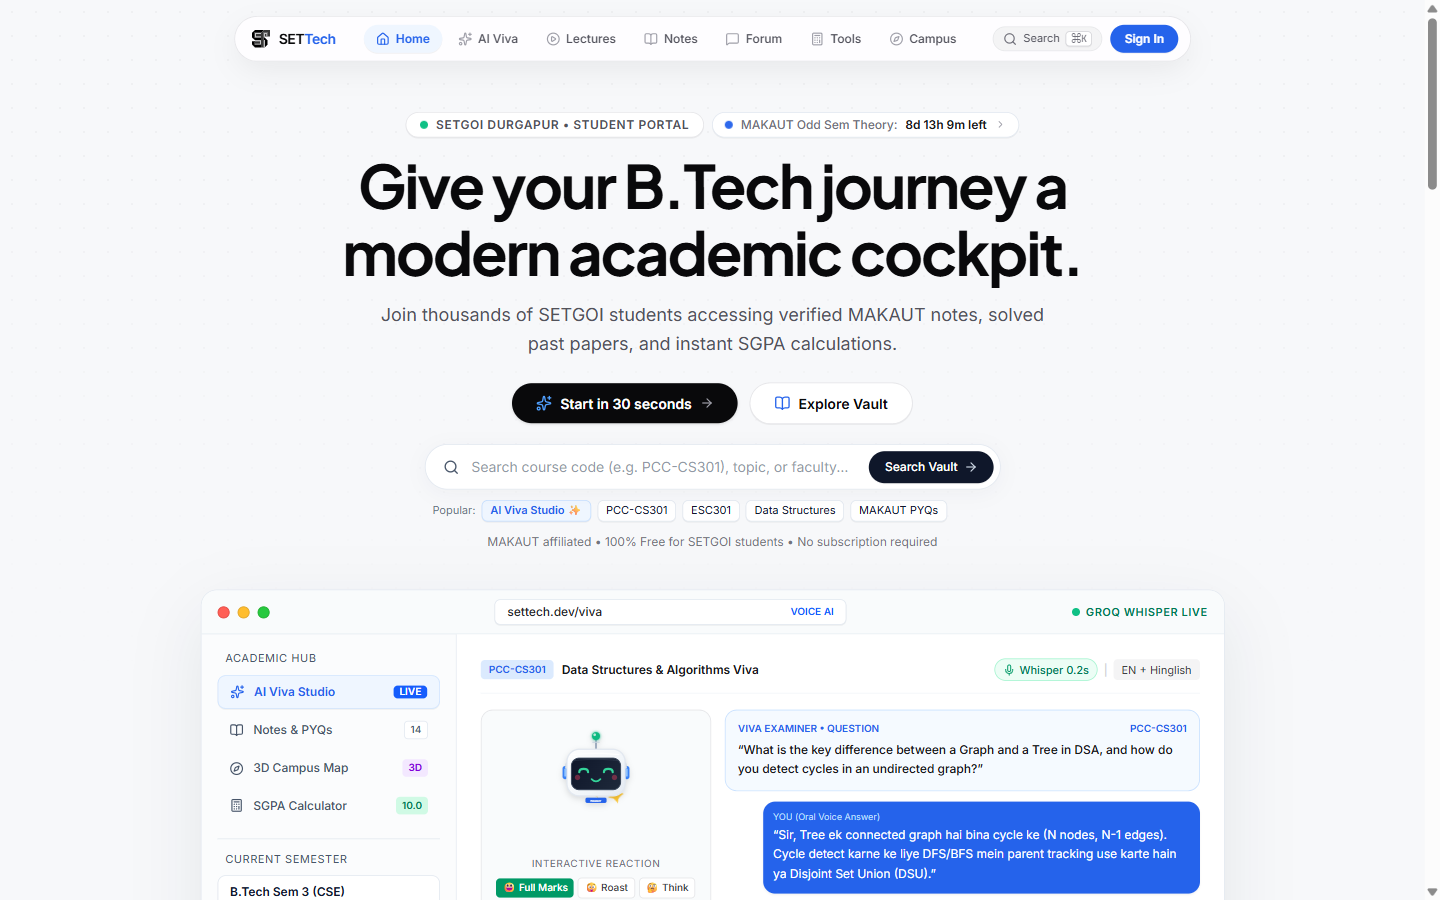
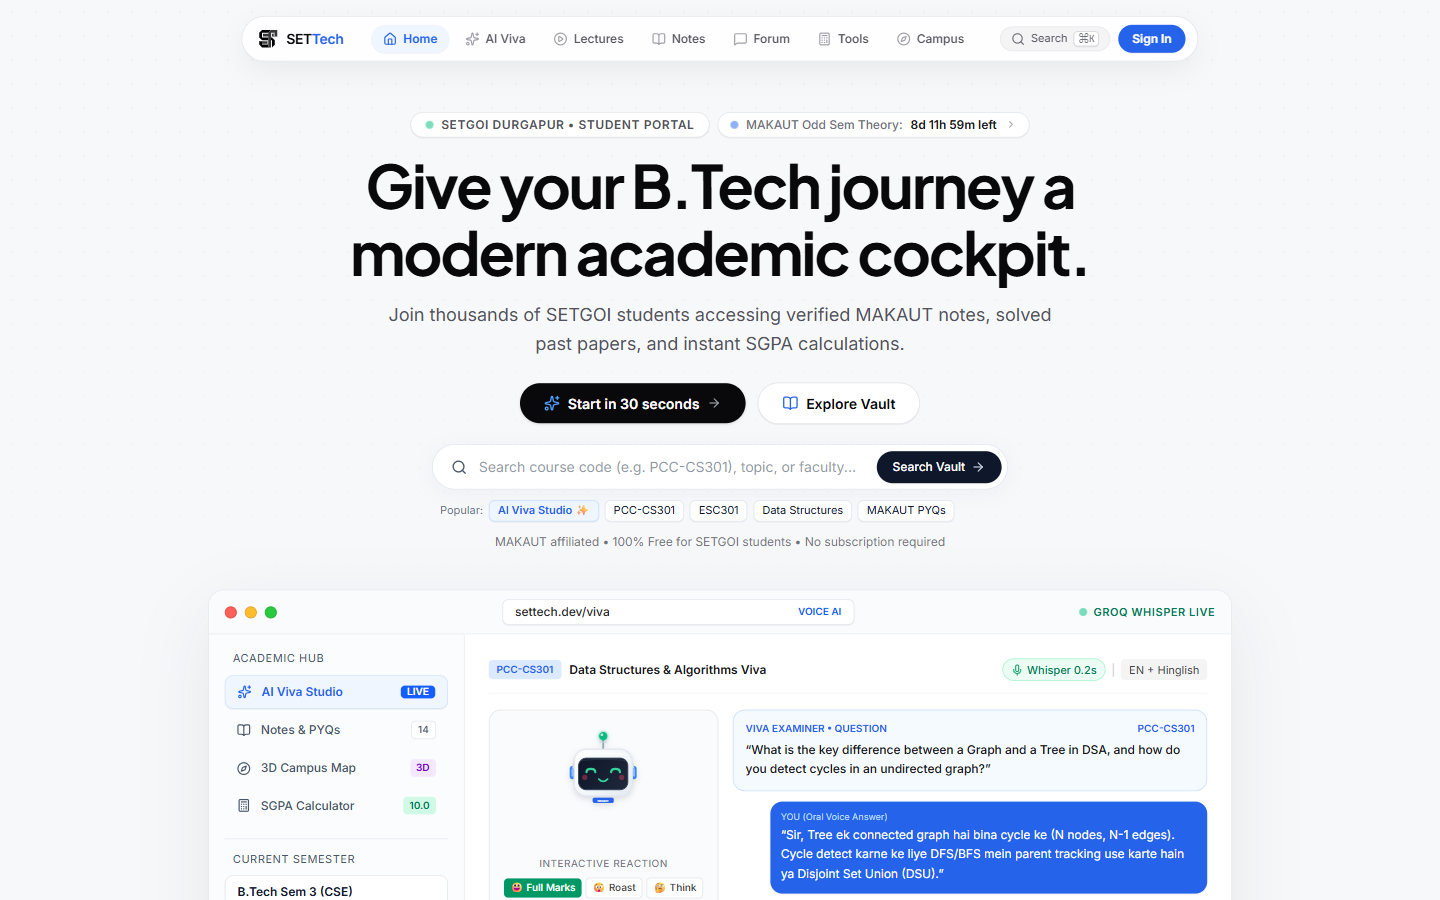
fix(poster): add SVG crest fallback, scrollbar-free preview, balanced typography & compact toolbar

diff --git a/src/app/poster/page.tsx b/src/app/poster/page.tsx
@@ -14,12 +14,56 @@ import {
   BookOpen,
   PlayCircle,
   Calculator,
-  GraduationCap,
   CheckCircle2,
   Mic,
   Compass,
 } from 'lucide-react';
 import { SetTechLogo } from '@/components/SetTechLogo';
+
+function SetgoiCrestSvg() {
+  return (
+    <svg
+      width="44"
+      height="44"
+      viewBox="0 0 44 44"
+      fill="none"
+      xmlns="http://www.w3.org/2000/svg"
+      aria-label="SETGOI Institutional Crest"
+    >
+      <path
+        d="M22 3L38 9V21.5C38 31.1 31.2 38.4 22 41C12.8 38.4 6 31.1 6 21.5V9L22 3Z"
+        fill="#09090B"
+      />
+      <path
+        d="M22 5.8L35.2 10.8V21.4C35.2 29.4 29.6 35.6 22 38C14.4 35.6 8.8 29.4 8.8 21.4V10.8L22 5.8Z"
+        stroke="#2563EB"
+        strokeWidth="1.4"
+      />
+      <path
+        d="M22 10.5L29.5 14.2L22 17.8L14.5 14.2L22 10.5Z"
+        fill="#2563EB"
+      />
+      <path
+        d="M17.2 16.4V20.2C17.2 21.5 19.3 22.6 22 22.6C24.7 22.6 26.8 21.5 26.8 20.2V16.4"
+        stroke="#FAFAFA"
+        strokeWidth="1.2"
+        strokeLinecap="round"
+      />
+      <text
+        x="22"
+        y="31.5"
+        textAnchor="middle"
+        fill="#FAFAFA"
+        fontSize="7.2"
+        fontWeight="800"
+        fontFamily="ui-monospace, SFMono-Regular, Menlo, monospace"
+        letterSpacing="0.8"
+      >
+        SETGOI
+      </text>
+    </svg>
+  );
+}
 
 export default function PosterStudioPage() {
   const posterRef = useRef<HTMLDivElement | null>(null);
@@ -27,7 +71,7 @@ export default function PosterStudioPage() {
   const screenshotInputRef = useRef<HTMLInputElement | null>(null);
 
   const [format, setFormat] = useState<'a4' | 'social'>('a4');
-  const [collegeLogoSrc, setCollegeLogoSrc] = useState<string>('/setgoi-logo.png');
+  const [logoSrc, setLogoSrc] = useState<string>('/setgoi-logo.png');
   const [logoError, setLogoError] = useState<boolean>(false);
 
   const [landingPreviewSrc, setLandingPreviewSrc] = useState<string>('/poster/landing-preview.png');
@@ -86,34 +130,34 @@ export default function PosterStudioPage() {
       {/* =========================================================================
           NON-PRINTABLE CONTROL TOOLBAR
           ========================================================================= */}
-      <div className="print:hidden w-full max-w-[920px] bg-white/90 backdrop-blur-md border border-[#E4E4E7] rounded-2xl px-4 py-3 shadow-sm flex flex-wrap items-center justify-between gap-3 sticky top-4 z-40">
-        <div className="flex items-center gap-3">
+      <div className="print:hidden w-full max-w-[1080px] bg-white/90 backdrop-blur-md border border-[#E4E4E7] rounded-2xl px-3.5 py-2.5 shadow-sm flex flex-wrap items-center justify-between gap-2 sticky top-4 z-40">
+        <div className="flex items-center gap-2.5">
           <Link
             href="/"
-            className="px-3 py-1.5 rounded-xl bg-zinc-100 hover:bg-zinc-200/80 text-zinc-700 text-xs font-mono font-medium inline-flex items-center gap-1.5 transition-colors"
+            className="px-2.5 py-1.5 rounded-xl bg-zinc-100 hover:bg-zinc-200/80 text-zinc-700 text-xs font-mono font-medium inline-flex items-center gap-1.5 transition-colors"
           >
             <ArrowLeft className="w-3.5 h-3.5" />
             <span>Back</span>
           </Link>
-          <div>
-            <div className="text-xs font-bold text-[#09090B] font-display">
-              SETTech A4 Poster Studio
+          <div className="hidden sm:block">
+            <div className="text-xs font-bold text-[#09090B] font-display leading-tight">
+              SETTech Poster Studio
             </div>
             <div className="text-[10px] font-mono text-zinc-500">
-              {format === 'social' ? '1080 × 1080px • 1:1 Social Card' : '794 × 1123px • A4 Print Sheet'}
+              {format === 'social' ? '1080 × 1080 • 1:1 Card' : '794 × 1123 • A4 Print'}
             </div>
           </div>
 
           {/* Format Switcher Segmented Toggle */}
           <div
-            className="flex items-center gap-0.5 p-0.5 bg-zinc-100 border border-[#E4E4E7] rounded-xl text-[11px] font-mono ml-2"
+            className="flex items-center gap-0.5 p-0.5 bg-zinc-100 border border-[#E4E4E7] rounded-xl text-[11px] font-mono ml-1"
             role="group"
             aria-label="Poster Format Switcher"
           >
             <button
               type="button"
               onClick={() => setFormat('a4')}
-              className={`px-2.5 py-1 rounded-lg transition-all cursor-pointer ${
+              className={`px-2.5 py-1 rounded-lg transition-all cursor-pointer whitespace-nowrap ${
                 format === 'a4'
                   ? 'bg-white text-[#09090B] font-bold shadow-2xs'
                   : 'text-zinc-500 hover:text-zinc-900'
@@ -124,7 +168,7 @@ export default function PosterStudioPage() {
             <button
               type="button"
               onClick={() => setFormat('social')}
-              className={`px-2.5 py-1 rounded-lg transition-all cursor-pointer ${
+              className={`px-2.5 py-1 rounded-lg transition-all cursor-pointer whitespace-nowrap ${
                 format === 'social'
                   ? 'bg-white text-[#2563EB] font-bold shadow-2xs'
                   : 'text-zinc-500 hover:text-zinc-900'
@@ -135,7 +179,7 @@ export default function PosterStudioPage() {
           </div>
         </div>
 
-        <div className="flex flex-wrap items-center gap-2">
+        <div className="flex flex-wrap items-center gap-1.5">
           <input
             ref={logoInputRef}
             type="file"
@@ -143,7 +187,7 @@ export default function PosterStudioPage() {
             className="hidden"
             onChange={(e) =>
               handleImageUpload(e, (url) => {
-                setCollegeLogoSrc(url);
+                setLogoSrc(url);
                 setLogoError(false);
               })
             }
@@ -151,10 +195,10 @@ export default function PosterStudioPage() {
           <button
             type="button"
             onClick={() => logoInputRef.current?.click()}
-            className="px-3 py-1.5 rounded-xl bg-white border border-[#E4E4E7] hover:bg-zinc-50 text-xs font-sans font-medium text-zinc-700 inline-flex items-center gap-1.5 cursor-pointer"
+            className="px-2.5 py-1.5 rounded-xl bg-white border border-[#E4E4E7] hover:bg-zinc-50 text-xs font-sans font-medium text-zinc-700 inline-flex items-center gap-1.5 cursor-pointer whitespace-nowrap"
           >
             <ImagePlus className="w-3.5 h-3.5 text-zinc-500" />
-            <span>Upload College Logo</span>
+            <span>College Logo</span>
           </button>
 
           <input
@@ -172,29 +216,29 @@ export default function PosterStudioPage() {
           <button
             type="button"
             onClick={() => screenshotInputRef.current?.click()}
-            className="px-3 py-1.5 rounded-xl bg-white border border-[#E4E4E7] hover:bg-zinc-50 text-xs font-sans font-medium text-zinc-700 inline-flex items-center gap-1.5 cursor-pointer"
+            className="px-2.5 py-1.5 rounded-xl bg-white border border-[#E4E4E7] hover:bg-zinc-50 text-xs font-sans font-medium text-zinc-700 inline-flex items-center gap-1.5 cursor-pointer whitespace-nowrap"
           >
             <ImagePlus className="w-3.5 h-3.5 text-zinc-500" />
-            <span>Upload Landing Screenshot</span>
+            <span>Screenshot</span>
           </button>
 
           <button
             type="button"
             onClick={handleDownloadPng}
             disabled={isExporting}
-            className="px-3.5 py-1.5 rounded-xl bg-[#2563EB] hover:bg-blue-700 text-white text-xs font-sans font-semibold inline-flex items-center gap-1.5 shadow-2xs transition-colors cursor-pointer disabled:opacity-60"
+            className="px-3 py-1.5 rounded-xl bg-[#2563EB] hover:bg-blue-700 text-white text-xs font-sans font-semibold inline-flex items-center gap-1.5 shadow-2xs transition-colors cursor-pointer disabled:opacity-60 whitespace-nowrap"
           >
             <Download className="w-3.5 h-3.5" />
-            <span>{isExporting ? 'Exporting...' : 'Download High-Res PNG (300 DPI)'}</span>
+            <span>{isExporting ? 'Exporting...' : 'Download PNG'}</span>
           </button>
 
           <button
             type="button"
             onClick={handlePrintPdf}
-            className="px-3.5 py-1.5 rounded-xl bg-[#09090B] hover:bg-zinc-800 text-white text-xs font-sans font-semibold inline-flex items-center gap-1.5 shadow-2xs transition-colors cursor-pointer"
+            className="px-3 py-1.5 rounded-xl bg-[#09090B] hover:bg-zinc-800 text-white text-xs font-sans font-semibold inline-flex items-center gap-1.5 shadow-2xs transition-colors cursor-pointer whitespace-nowrap"
           >
             <Printer className="w-3.5 h-3.5" />
-            <span>Print / Save A4 PDF</span>
+            <span>Print A4 PDF</span>
           </button>
         </div>
       </div>
@@ -218,22 +262,19 @@ export default function PosterStudioPage() {
           {/* -------------------------------------------------------------------
               SECTION 1: TOP INSTITUTIONAL CO-BRANDING HEADER
               ------------------------------------------------------------------- */}
-          <header className="flex items-center justify-between gap-4 pb-6 border-b border-[#E4E4E7]">
+          <header className="flex items-center justify-between gap-4 pb-5 border-b border-[#E4E4E7]">
             <div className="flex items-center gap-3.5 min-w-0">
-              {/* SETGOI College Logo with Automatic Fallback Emblem */}
-              <div className="w-12 h-12 rounded-xl bg-white border border-[#E4E4E7] shadow-2xs flex items-center justify-center overflow-hidden shrink-0 p-1">
-                {!logoError ? (
+              {/* SETGOI College Logo with Automatic SVG Crest Fallback */}
+              <div className="w-12 h-12 rounded-xl bg-white border border-[#E4E4E7] shadow-2xs flex items-center justify-center overflow-hidden shrink-0 p-0.5">
+                {!logoError && logoSrc ? (
                   <img
-                    src={collegeLogoSrc}
+                    src={logoSrc}
                     alt="SETGOI Logo"
-                    className="w-full h-full object-contain"
+                    className="w-full h-full object-contain rounded-lg"
                     onError={() => setLogoError(true)}
                   />
                 ) : (
-                  <div className="w-full h-full rounded-lg bg-[#09090B] text-white flex flex-col items-center justify-center">
-                    <GraduationCap className="w-5 h-5 text-blue-400" />
-                    <span className="text-[7px] font-mono font-bold tracking-wider mt-0.5">SETGOI</span>
-                  </div>
+                  <SetgoiCrestSvg />
                 )}
               </div>
 
@@ -258,12 +299,12 @@ export default function PosterStudioPage() {
           {/* -------------------------------------------------------------------
               SECTION 2: CRISP MINIMAL HERO HEADLINE
               ------------------------------------------------------------------- */}
-          <section className="text-center space-y-2.5 pt-2">
-            <h1 className="text-[34px] font-display font-extrabold text-[#09090B] tracking-[-0.035em] leading-[1.08] max-w-[660px] mx-auto">
-              Your Entire B.Tech Semester,{' '}
-              <span className="text-[#2563EB]">Organized in One Place.</span>
+          <section className="text-center space-y-2 pt-1">
+            <h1 className="text-[33px] font-display font-extrabold text-[#09090B] tracking-[-0.035em] leading-[1.1] max-w-[660px] mx-auto">
+              <span className="block">Your Entire B.Tech Semester,</span>
+              <span className="block text-[#2563EB]">Organized in One Place.</span>
             </h1>
-            <p className="text-[13.5px] font-sans text-[#52525B] max-w-[600px] mx-auto leading-relaxed">
+            <p className="text-[13px] font-sans text-[#52525B] max-w-[600px] mx-auto leading-relaxed">
               Verified MAKAUT notes, PYQs, SWAYAM lectures, AI Viva prep &amp; 75% attendance tracking.
             </p>
           </section>
@@ -271,17 +312,17 @@ export default function PosterStudioPage() {
           {/* -------------------------------------------------------------------
               SECTION 3: CENTERPIECE SETTECH LANDING PAGE SHOWCASE
               ------------------------------------------------------------------- */}
-          <section className="my-1">
+          <section className="my-0.5">
             <div className="rounded-2xl border border-[#D4D4D8] bg-white shadow-[0_20px_50px_rgba(0,0,0,0.06)] overflow-hidden">
               {/* macOS Browser Chrome */}
-              <div className="h-9 px-4 bg-zinc-50 border-b border-[#E4E4E7] flex items-center justify-between">
+              <div className="h-8 px-4 bg-zinc-50 border-b border-[#E4E4E7] flex items-center justify-between">
                 <div className="flex items-center gap-1.5">
                   <span className="w-2.5 h-2.5 rounded-full bg-zinc-300" />
                   <span className="w-2.5 h-2.5 rounded-full bg-zinc-300" />
                   <span className="w-2.5 h-2.5 rounded-full bg-zinc-300" />
                 </div>
 
-                <div className="px-4 py-1 rounded-lg bg-white border border-[#E4E4E7] text-[10.5px] font-mono text-zinc-600 flex items-center gap-1.5 shadow-2xs">
+                <div className="px-4 py-0.5 rounded-lg bg-white border border-[#E4E4E7] text-[10.5px] font-mono text-zinc-600 flex items-center gap-1.5 shadow-2xs">
                   <Lock className="w-2.5 h-2.5 text-emerald-600" />
                   <span>https://settech.ceimran.in</span>
                 </div>
@@ -292,7 +333,7 @@ export default function PosterStudioPage() {
               {/* Landing Page Screenshot OR Faithful High-Craft Architectural Composition */}
               <div
                 className={`w-full ${
-                  format === 'social' ? 'h-[390px]' : 'h-[435px]'
+                  format === 'social' ? 'h-[365px]' : 'h-[410px] max-h-[455px]'
                 } bg-[#FAFAFA] overflow-hidden relative`}
               >
                 {!previewImgError ? (
@@ -469,45 +510,53 @@ export default function PosterStudioPage() {
           {/* -------------------------------------------------------------------
               SECTION 5: BOTTOM REAL QR SCAN DOCK
               ------------------------------------------------------------------- */}
-          <footer className="bg-white border border-[#E4E4E7] rounded-2xl p-6 shadow-xs flex items-center justify-between gap-6">
-            <div className="space-y-2.5">
-              <div className="text-[10px] font-mono font-bold uppercase tracking-widest text-[#2563EB]">
-                FREE FOR ALL SETGOI B.TECH STUDENTS
+          <footer className="space-y-3">
+            <div className="bg-white border border-[#E4E4E7] rounded-2xl px-6 py-5 shadow-xs flex items-center justify-between gap-6">
+              <div className="space-y-2">
+                <div className="text-[10px] font-mono font-bold uppercase tracking-widest text-[#2563EB]">
+                  FREE FOR ALL SETGOI B.TECH STUDENTS
+                </div>
+                <h2 className="text-[22px] font-display font-bold text-[#09090B] tracking-tight leading-tight">
+                  Scan to Access SETTech Instantly
+                </h2>
+                <p className="text-[12.5px] font-sans text-[#52525B]">
+                  Open Camera &rarr; Scan QR &rarr; Sign in with Google
+                </p>
+                <div className="pt-0.5">
+                  <span className="inline-flex items-center gap-2 px-3.5 py-1.5 rounded-full bg-[#09090B] text-white font-mono text-xs font-semibold tracking-wide">
+                    <span className="w-1.5 h-1.5 rounded-full bg-emerald-400" />
+                    settech.ceimran.in
+                  </span>
+                </div>
               </div>
-              <h2 className="text-[22px] font-display font-bold text-[#09090B] tracking-tight leading-tight">
-                Scan to Access SETTech Instantly
-              </h2>
-              <p className="text-[12.5px] font-sans text-[#52525B]">
-                Open Camera &rarr; Scan QR &rarr; Sign in with Google
-              </p>
-              <div className="pt-1">
-                <span className="inline-flex items-center gap-2 px-3.5 py-1.5 rounded-full bg-[#09090B] text-white font-mono text-xs font-semibold tracking-wide">
-                  <span className="w-1.5 h-1.5 rounded-full bg-emerald-400" />
-                  settech.ceimran.in
+
+              {/* Sharp White QR Frame with Corner Viewfinder Marks */}
+              <div className="flex flex-col items-center gap-2.5 shrink-0">
+                <div className="relative p-3.5 bg-white border border-[#E4E4E7] rounded-xl shadow-2xs">
+                  {/* Corner Viewfinder Accents */}
+                  <span className="absolute -top-0.5 -left-0.5 w-3 h-3 border-t-2 border-l-2 border-[#09090B] rounded-tl" />
+                  <span className="absolute -top-0.5 -right-0.5 w-3 h-3 border-t-2 border-r-2 border-[#09090B] rounded-tr" />
+                  <span className="absolute -bottom-0.5 -left-0.5 w-3 h-3 border-b-2 border-l-2 border-[#09090B] rounded-bl" />
+                  <span className="absolute -bottom-0.5 -right-0.5 w-3 h-3 border-b-2 border-r-2 border-[#09090B] rounded-br" />
+
+                  <QRCodeSVG
+                    value="https://settech.ceimran.in"
+                    size={112}
+                    level="H"
+                    bgColor="#FFFFFF"
+                    fgColor="#09090B"
+                  />
+                </div>
+                <span className="text-[9.5px] font-mono font-bold tracking-[0.2em] text-[#09090B]">
+                  SCAN TO OPEN
                 </span>
               </div>
             </div>
 
-            {/* Sharp White QR Frame with Corner Viewfinder Marks */}
-            <div className="flex flex-col items-center gap-1.5 shrink-0">
-              <div className="relative p-3 bg-white border border-[#E4E4E7] rounded-xl shadow-2xs">
-                {/* Corner Viewfinder Accents */}
-                <span className="absolute -top-0.5 -left-0.5 w-3 h-3 border-t-2 border-l-2 border-[#09090B] rounded-tl" />
-                <span className="absolute -top-0.5 -right-0.5 w-3 h-3 border-t-2 border-r-2 border-[#09090B] rounded-tr" />
-                <span className="absolute -bottom-0.5 -left-0.5 w-3 h-3 border-b-2 border-l-2 border-[#09090B] rounded-bl" />
-                <span className="absolute -bottom-0.5 -right-0.5 w-3 h-3 border-b-2 border-r-2 border-[#09090B] rounded-br" />
-
-                <QRCodeSVG
-                  value="https://settech.ceimran.in"
-                  size={116}
-                  level="H"
-                  bgColor="#FFFFFF"
-                  fgColor="#09090B"
-                />
-              </div>
-              <span className="text-[9.5px] font-mono font-bold tracking-[0.2em] text-[#09090B]">
-                SCAN TO OPEN
-              </span>
+            {/* Sleek Bottom Micro-Footer Bar */}
+            <div className="flex items-center justify-between px-1 pt-1 text-[10px] font-mono text-[#52525B]">
+              <span>Sanaka Educational Trust&apos;s Group of Institutions • Malandighi, Durgapur</span>
+              <span className="text-[#09090B] font-semibold">Built for SETGOI Engineers • Free Access</span>
             </div>
           </footer>
         </div>
